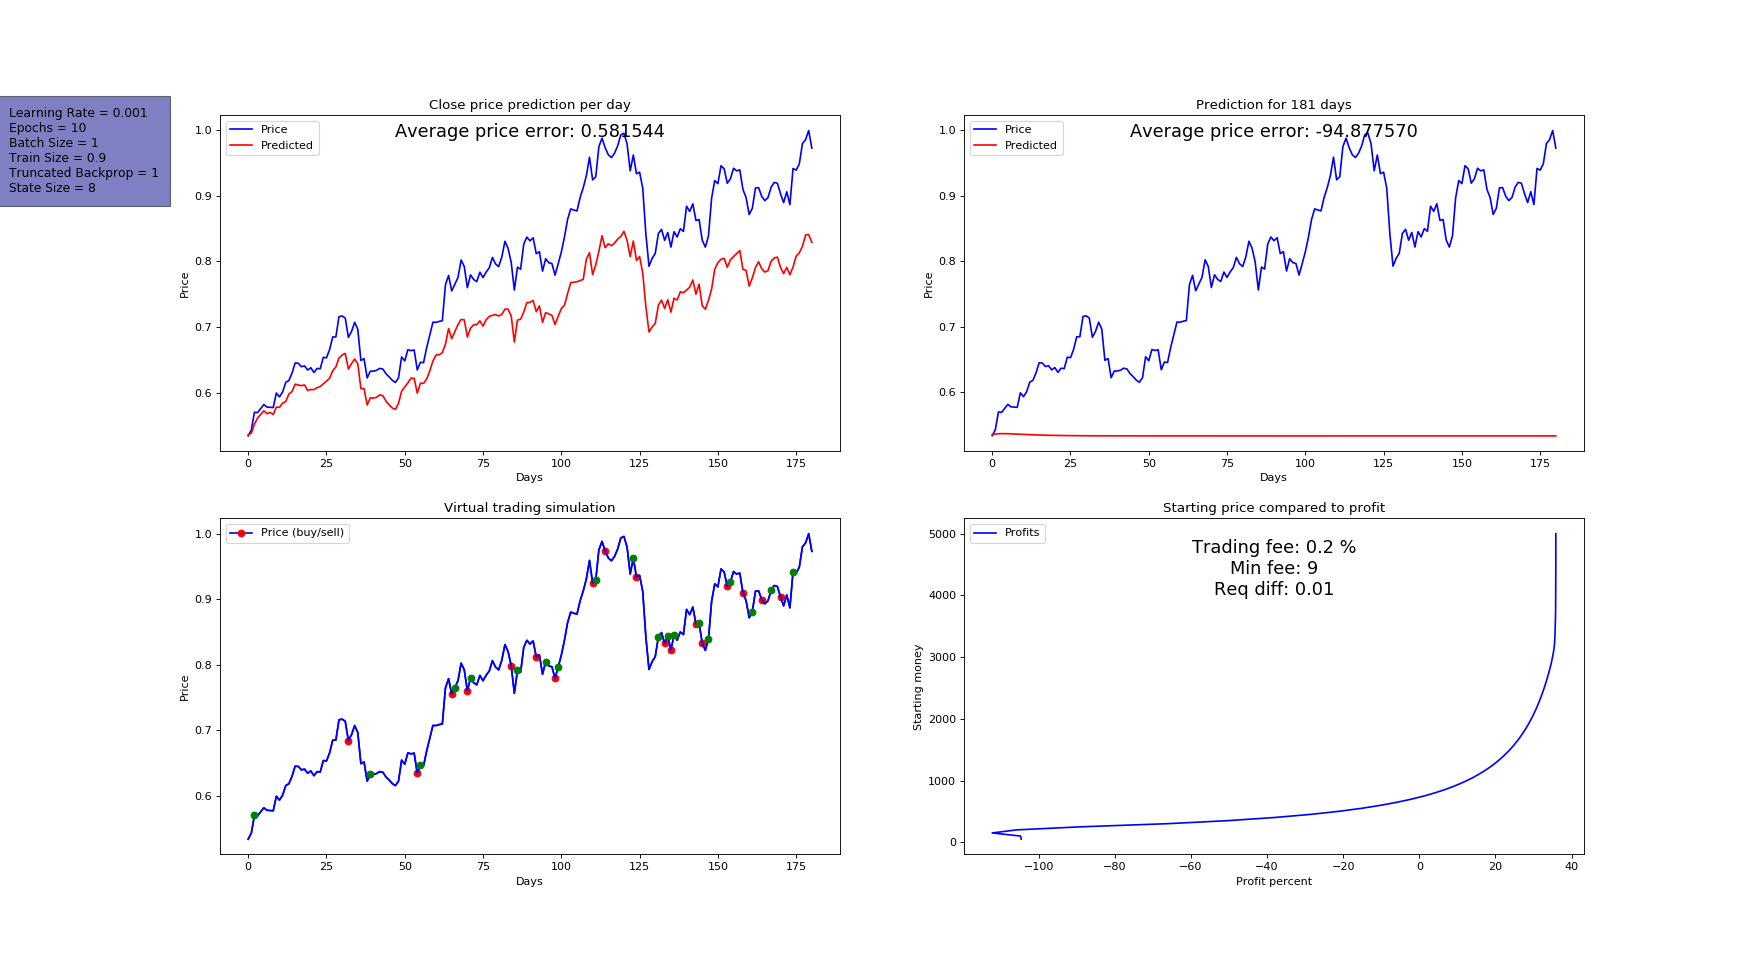
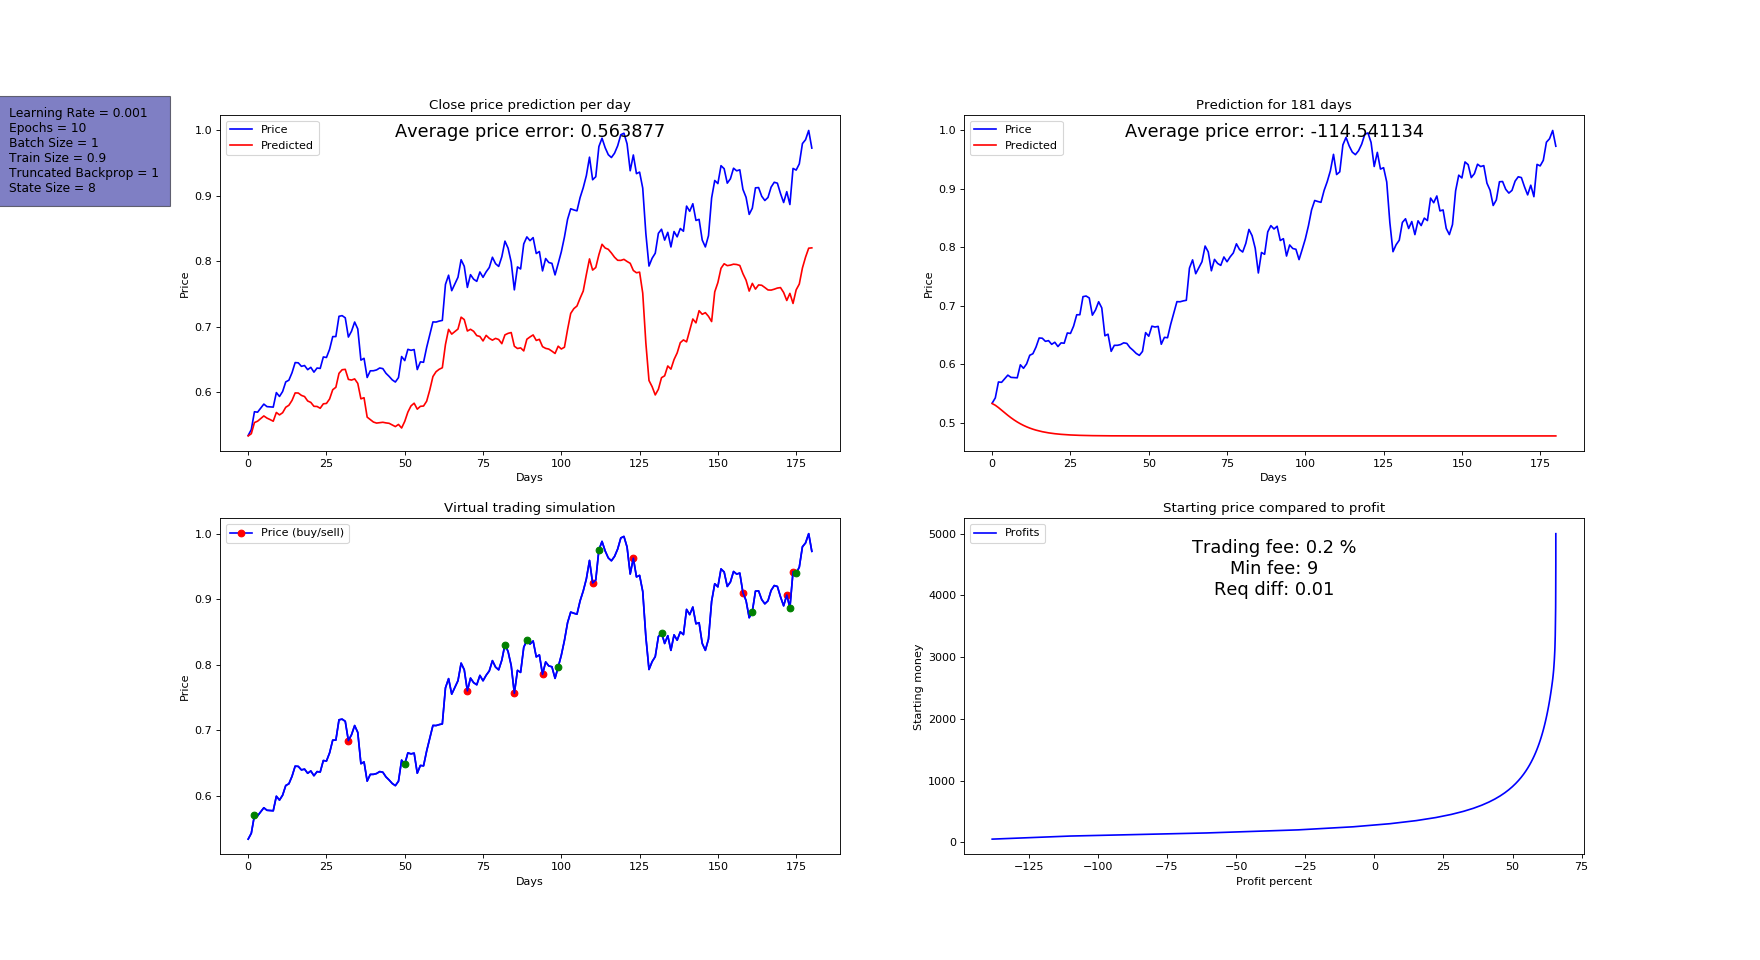
stock prediction

diff --git a/models/stock_market_prediction/stock_predictor.py b/models/stock_market_prediction/stock_predictor.py
@@ -10,7 +10,7 @@ from simulation import StockTradingSimulation
 
 outfile = "prediction.png"
 outfolder = "output"
-stock = "TSLA"
+stock = "ABT"
 infile = "{}_alltargets.csv".format(stock)
 infolder = "stock" # ("stock" / "currency")
 
